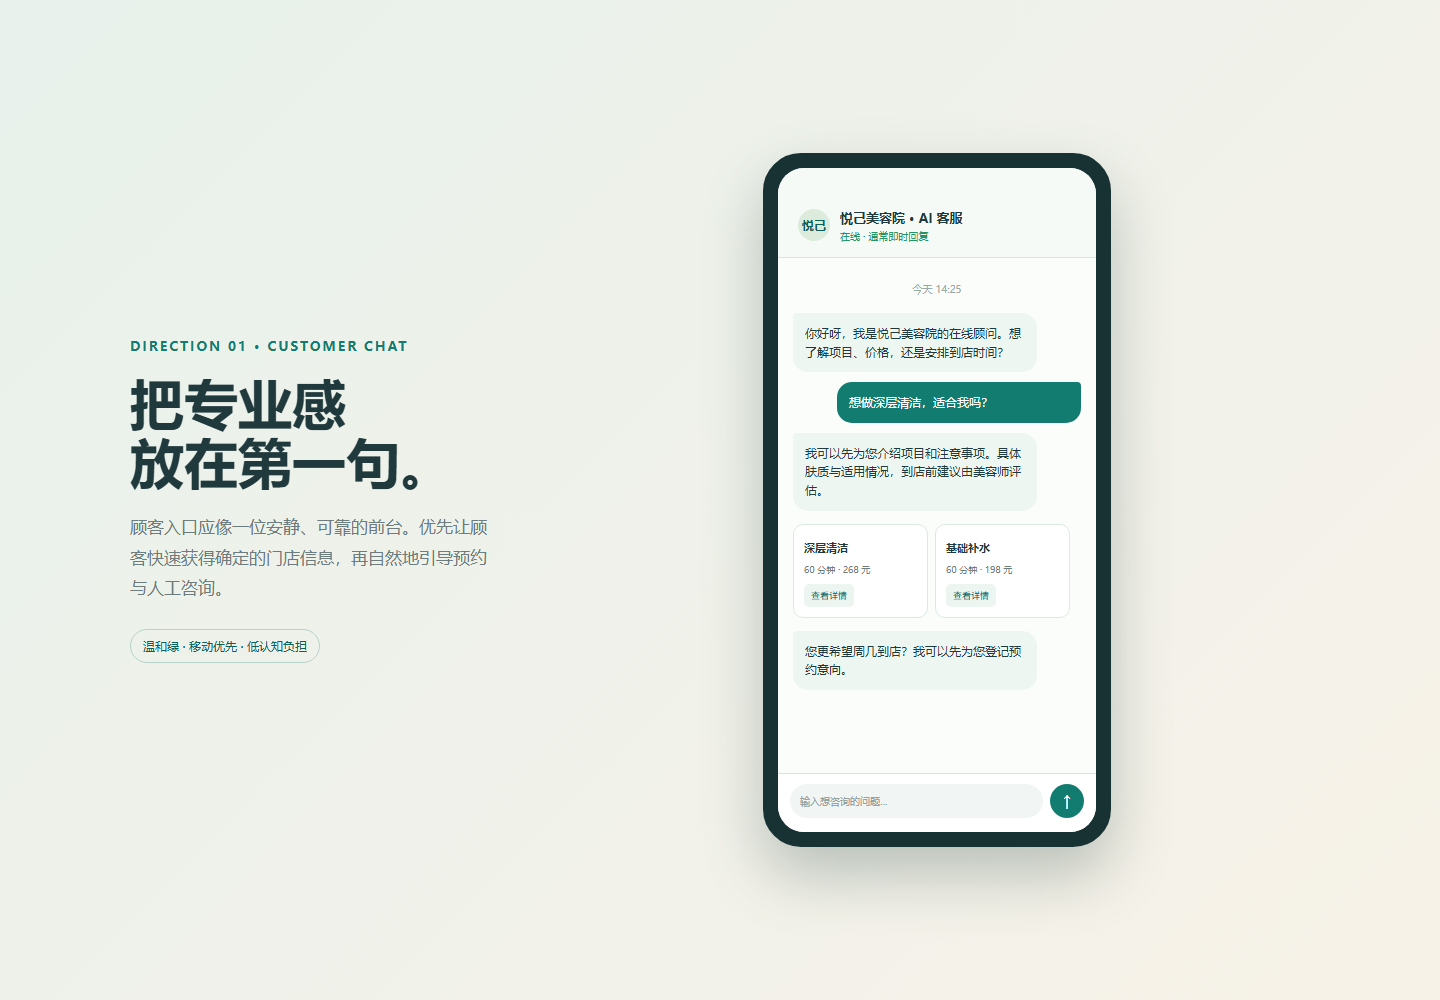
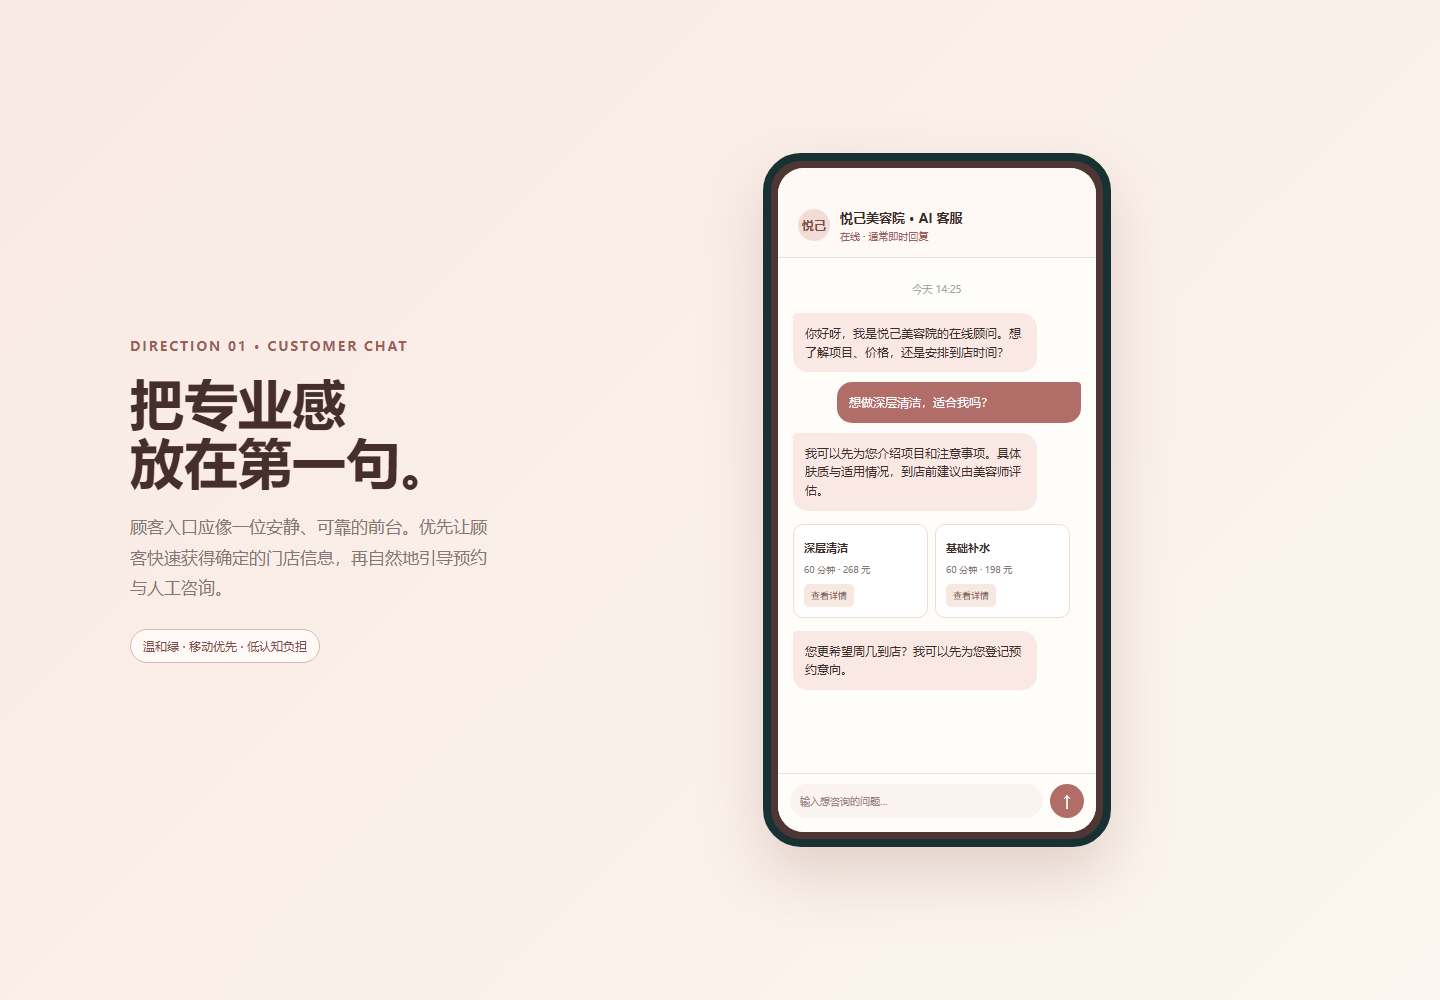
docs: restyle salon ui design previews

diff --git a/design-previews.html b/design-previews.html
@@ -5,6 +5,9 @@
   <style>
     :root{--ink:#20393c;--muted:#6d7c7d;--line:#d9e3df;--paper:#fffdfa;--canvas:#eef2ee;--sage:#dcebdc;--jade:#137c70;--jade-dark:#0b6158;--mist:#eff7f4;--gold:#d69b50;--danger:#a94e48;font-family:"Microsoft YaHei","PingFang SC",system-ui,sans-serif}*{box-sizing:border-box}body{margin:0;background:var(--canvas);color:var(--ink)}.cover{height:100vh;min-height:900px;display:grid;place-items:center;overflow:hidden;background:linear-gradient(135deg,#e8f1ec,#f7f2e8)}.cover-inner{width:1180px;display:grid;grid-template-columns:370px 1fr;gap:64px;align-items:center}.cover h1{font-size:54px;line-height:1.08;letter-spacing:0;margin:0 0 20px}.eyebrow{font-size:13px;letter-spacing:2px;color:var(--jade);font-weight:700;margin-bottom:20px}.cover p{font-size:17px;line-height:1.8;color:var(--muted);margin:0}.pill{display:inline-block;margin-top:26px;padding:8px 12px;border:1px solid #b7d2c9;border-radius:99px;color:var(--jade-dark);font-size:12px}.phone{width:348px;height:694px;margin:auto;background:#183234;border:8px solid #183234;border-radius:38px;padding:7px;box-shadow:0 28px 60px #48605955}.screen{height:100%;background:#fbfdfb;border-radius:26px;overflow:hidden}.phone-top{height:90px;padding:34px 20px 10px;background:#f5faf7;display:flex;align-items:center;gap:10px;border-bottom:1px solid var(--line)}.avatar{width:32px;height:32px;display:grid;place-items:center;border-radius:50%;background:var(--sage);color:var(--jade-dark);font-weight:800;font-size:12px}.phone-title b{font-size:13px}.phone-title small{display:block;color:#249565;font-size:10px;margin-top:2px}.chat{padding:20px 15px}.date{text-align:center;color:#9aa8a6;font-size:10px;margin:4px 0 17px}.bubble{max-width:244px;padding:11px 12px;margin:10px 0;border-radius:15px;font-size:12px;line-height:1.55}.bubble.ai{background:#edf6f1;border-top-left-radius:4px}.bubble.user{background:var(--jade);color:#fff;margin-left:auto;border-top-right-radius:4px}.cards{display:flex;gap:7px;overflow:hidden;margin:13px 0}.service-card{width:135px;flex:0 0 135px;border:1px solid #dce9e1;border-radius:10px;background:white;padding:10px}.service-card strong{font-size:11px}.service-card p{font-size:9px;margin:5px 0;color:var(--muted)}.service-card button{font-size:9px;border:0;border-radius:5px;background:#ecf5ef;color:var(--jade-dark);padding:5px 7px}.compose{position:absolute;bottom:0;width:100%;padding:10px 12px 14px;background:white;border-top:1px solid var(--line)}.compose-row{display:flex;gap:7px}.input{height:34px;flex:1;border-radius:18px;background:#f1f5f3;color:#94a2a0;font-size:10px;padding:10px}.send{display:grid;place-items:center;width:34px;border-radius:50%;background:var(--jade);color:#fff;font-size:16px}.art{height:100vh;min-height:900px;padding:55px max(60px,calc((100vw - 1240px)/2));background:#f8faf8}.caption{display:flex;justify-content:space-between;align-items:end;margin-bottom:24px}.caption h2{font-size:30px;margin:0 0 6px}.caption p{margin:0;color:var(--muted);font-size:14px}.num{font-size:12px;color:var(--jade);letter-spacing:1.5px}.shell{height:725px;background:#f7faf8;border:1px solid #d8e3dd;border-radius:18px;overflow:hidden;box-shadow:0 20px 50px #45615514;display:grid;grid-template-columns:220px 1fr}.side{background:#17393a;color:#edf8f4;padding:25px 16px}.logo{display:flex;align-items:center;gap:9px;font-weight:700;font-size:15px;margin-bottom:42px}.logo i{display:grid;place-items:center;width:30px;height:30px;border-radius:8px;background:#d8ebcf;color:#1e5146;font-style:normal}.nav{display:grid;gap:5px}.nav div{padding:10px 11px;border-radius:7px;color:#a9c5bd;font-size:13px}.nav .active{background:#29665f;color:#fff}.side-bottom{position:absolute;bottom:35px;font-size:11px;color:#9bb8b0}.main{padding:28px 31px;overflow:hidden}.toolbar{display:flex;justify-content:space-between;margin-bottom:24px}.toolbar h3{margin:0;font-size:22px}.toolbar small{display:block;color:var(--muted);margin-top:5px}.staff{padding:8px 10px;background:#fff;border:1px solid var(--line);border-radius:7px;font-size:12px}.queues{display:grid;grid-template-columns:265px 1fr;gap:18px;height:605px}.queue{border-right:1px solid var(--line);padding-right:18px}.filter{display:flex;gap:6px;margin-bottom:10px}.filter span{font-size:11px;padding:4px 8px;color:var(--muted)}.filter .on{color:var(--jade-dark);background:#e4f1ea;border-radius:99px}.contact{padding:12px 10px;border-bottom:1px solid #e5ece8}.contact.active{background:#eaf5ef;border-radius:8px;border:0}.contact b{font-size:13px}.contact p{color:var(--muted);margin:4px 0 0;font-size:11px;white-space:nowrap;overflow:hidden;text-overflow:ellipsis}.tag{float:right;padding:2px 6px;border-radius:99px;background:#fff0dd;color:#ae6e19;font-size:9px}.detail-head{display:flex;justify-content:space-between;align-items:center;padding-bottom:17px;border-bottom:1px solid var(--line)}.detail-head b{font-size:16px}.detail-head small{display:block;color:var(--muted);margin-top:4px}.buttons button{border:1px solid #b8d4c8;padding:8px 10px;background:#fff;border-radius:6px;color:var(--jade-dark);font-size:11px}.buttons .claim{background:var(--jade);border-color:var(--jade);color:white}.history{padding:18px 0;height:440px}.message-line{max-width:70%;margin:10px 0;padding:10px 11px;border-radius:7px;font-size:12px;line-height:1.55}.message-line.customer{background:#edf4f1}.message-line.staff{margin-left:auto;background:#e0f0df}.message-line.ai{background:#f7f3e9}.label{font-size:10px;color:var(--muted);margin-bottom:3px}.staff-compose{display:flex;gap:9px;border-top:1px solid var(--line);padding-top:14px}.staff-compose .input{border-radius:7px;background:white;border:1px solid #cddbd5;height:42px;font-size:12px}.staff-compose .send{width:82px;border-radius:6px;font-size:12px}.workspace{height:725px;background:#f5f7f6;border:1px solid #d8e3dd;border-radius:18px;overflow:hidden;box-shadow:0 20px 50px #45615514;display:grid;grid-template-columns:210px 1fr}.workspace-main{padding:27px 29px}.cards-row{display:grid;grid-template-columns:repeat(4,1fr);gap:12px;margin:22px 0}.metric{padding:15px;background:#fff;border:1px solid var(--line);border-radius:10px}.metric small{color:var(--muted);font-size:11px}.metric b{display:block;font-size:26px;margin-top:8px}.metric .up{color:#2c8c62;font-size:10px}.dash-grid{display:grid;grid-template-columns:1.2fr .8fr;gap:14px}.box{background:#fff;border:1px solid var(--line);border-radius:10px;min-height:235px;padding:15px}.box h4{margin:0 0 14px;font-size:14px}.task-row{display:grid;grid-template-columns:30px 1fr auto;gap:9px;align-items:center;padding:10px 0;border-bottom:1px solid #edf1ef;font-size:12px}.check{width:18px;height:18px;border:1px solid #b8cec4;border-radius:50%}.orange{color:#c57b24;font-size:10px}.memory{padding:10px;background:#f4f8f6;border-radius:7px;margin:8px 0;font-size:11px}.memory b{color:var(--jade-dark)}.chart{height:120px;display:flex;align-items:end;gap:16px;padding:10px 8px 0}.bar{width:28px;background:#8dbdb0;border-radius:5px 5px 0 0}.bar:nth-child(2),.bar:nth-child(5){background:var(--jade)}.chart-label{display:flex;gap:25px;color:var(--muted);font-size:10px;margin-left:8px}@media(max-width:900px){.cover-inner{width:auto;padding:35px;grid-template-columns:1fr}.cover h1{font-size:40px}.art{padding:35px}.shell,.workspace{min-width:850px}.art{overflow:auto}}
     section[hidden]{display:none!important}
+    /* Direction refresh: French-inspired salon care, not the production UI. */
+    :root{--ink:#3c2d2b;--muted:#877674;--line:#ecdeda;--paper:#fffdfa;--canvas:#f7efe9;--sage:#e8ddd3;--jade:#b16d67;--jade-dark:#7e4a47;--mist:#fbf0ec;--gold:#b78352;--danger:#a6504d}
+    body{background:#f7efe9}.cover{background:linear-gradient(135deg,#f9e9e4,#fbf6ef)}.cover h1{color:#452e2c}.eyebrow,.num{color:#9d5e59}.pill{border-color:#dcb7ac;color:#7e4a47;background:#fffaf7}.phone{background:#4d3634;box-shadow:0 28px 60px #9b6d6540}.screen{background:#fffdfa}.phone-top{background:#fff9f5}.avatar{background:#f2ddd6;color:#804b48}.phone-title small{color:#9b625f}.bubble.ai{background:#f9e8e3}.bubble.user,.send,.buttons .claim{background:#b16d67}.service-card{border-color:#eedbd3}.service-card button{background:#f7e8e1;color:#804b48}.compose{background:#fffdfa}.input{background:#faf3ef;color:#9a8581}.art{background:#fbf6f1}.shell,.workspace{background:#fffdfb;border-color:#eadbd5;box-shadow:0 20px 50px #8e645b17}.side{background:#3c2c2a;color:#fdf5ed}.logo i{background:#e9c9ba;color:#623d3a}.nav div{color:#d8bbb0}.nav .active{background:#704643;color:#fff5ef}.side-bottom{color:#d0aca1}.staff,.metric,.box{border-color:#eadbd5}.filter .on,.contact.active{color:#7e4a47;background:#f8e5de}.tag{background:#fff0df;color:#9f6d37}.buttons button{border-color:#dfb9ac;color:#7e4a47}.message-line.customer{background:#f8ece7}.message-line.staff{background:#e8e1d1}.message-line.ai{background:#fff2e2}.memory{background:#fbf0eb}.memory b{color:#7e4a47}.bar{background:#d7aaa0}.bar:nth-child(2),.bar:nth-child(5){background:#b16d67}.orange{color:#a46b36}
   </style>
 </head>
 <body>
